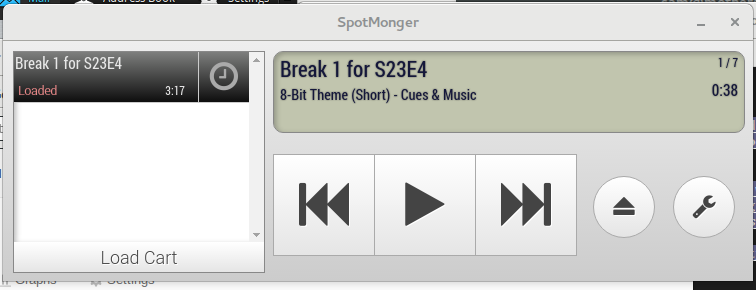
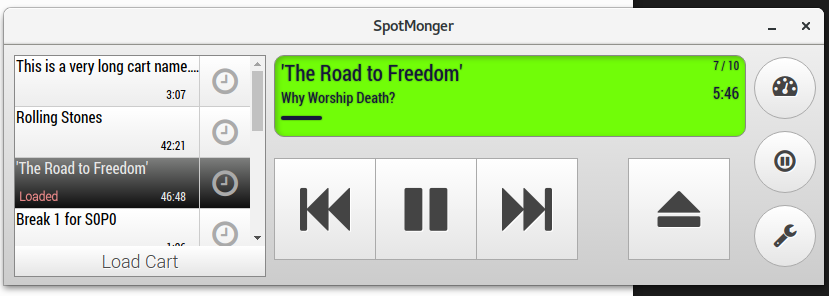
github changes

diff --git a/README.md b/README.md
@@ -1,9 +1,7 @@
 SpotMonger
 ==========
 
-![SpotMonger as of May 2016](https://raw.githubusercontent.com/refutationalist/spotmonger/master/example.png)
-
-**Note:** Master branch doesn't work as of 2017-3-29.  Use tag v1.1 for something known to work.
+![SpotMonger as of Apr 2017](https://raw.githubusercontent.com/refutationalist/spotmonger/master/example.png)
 
 SpotMonger is a basic "cart player," a broadcast studio tool for playing pre-recorded audio segments, jingles, leads, and other incidental audio.  SpotMonger extends that by allowing timed cueing, useful for scheduling commercial breaks.   It is optimized for touchscreens.
 
@@ -14,3 +12,10 @@ If you're into Arch Linux and weirdness, you're pretty much in good shape to get
 The (eventual) end users would be podcast producers who prefer live production, and community radio broadcasters.
 
 I'll call this all GPLv3 for now unless a better idea comes along.  Includes jQuery, [Font Awesome](https://fortawesome.github.io/Font-Awesome/) and some fonts from the Google Web Fonts kit.   As I didn't originally plan on releasing this, I may need to change some of that around as time goes on.
+
+New features in 1.3:
+  * jquery removed (css3 animations)
+  * spotmonger UI rewrite
+  * "Clock Stop" for cue clock pausing
+  * "Soundboard" mode where carts play immediately
+  * Playing, stopping, and end of track indicators in display
